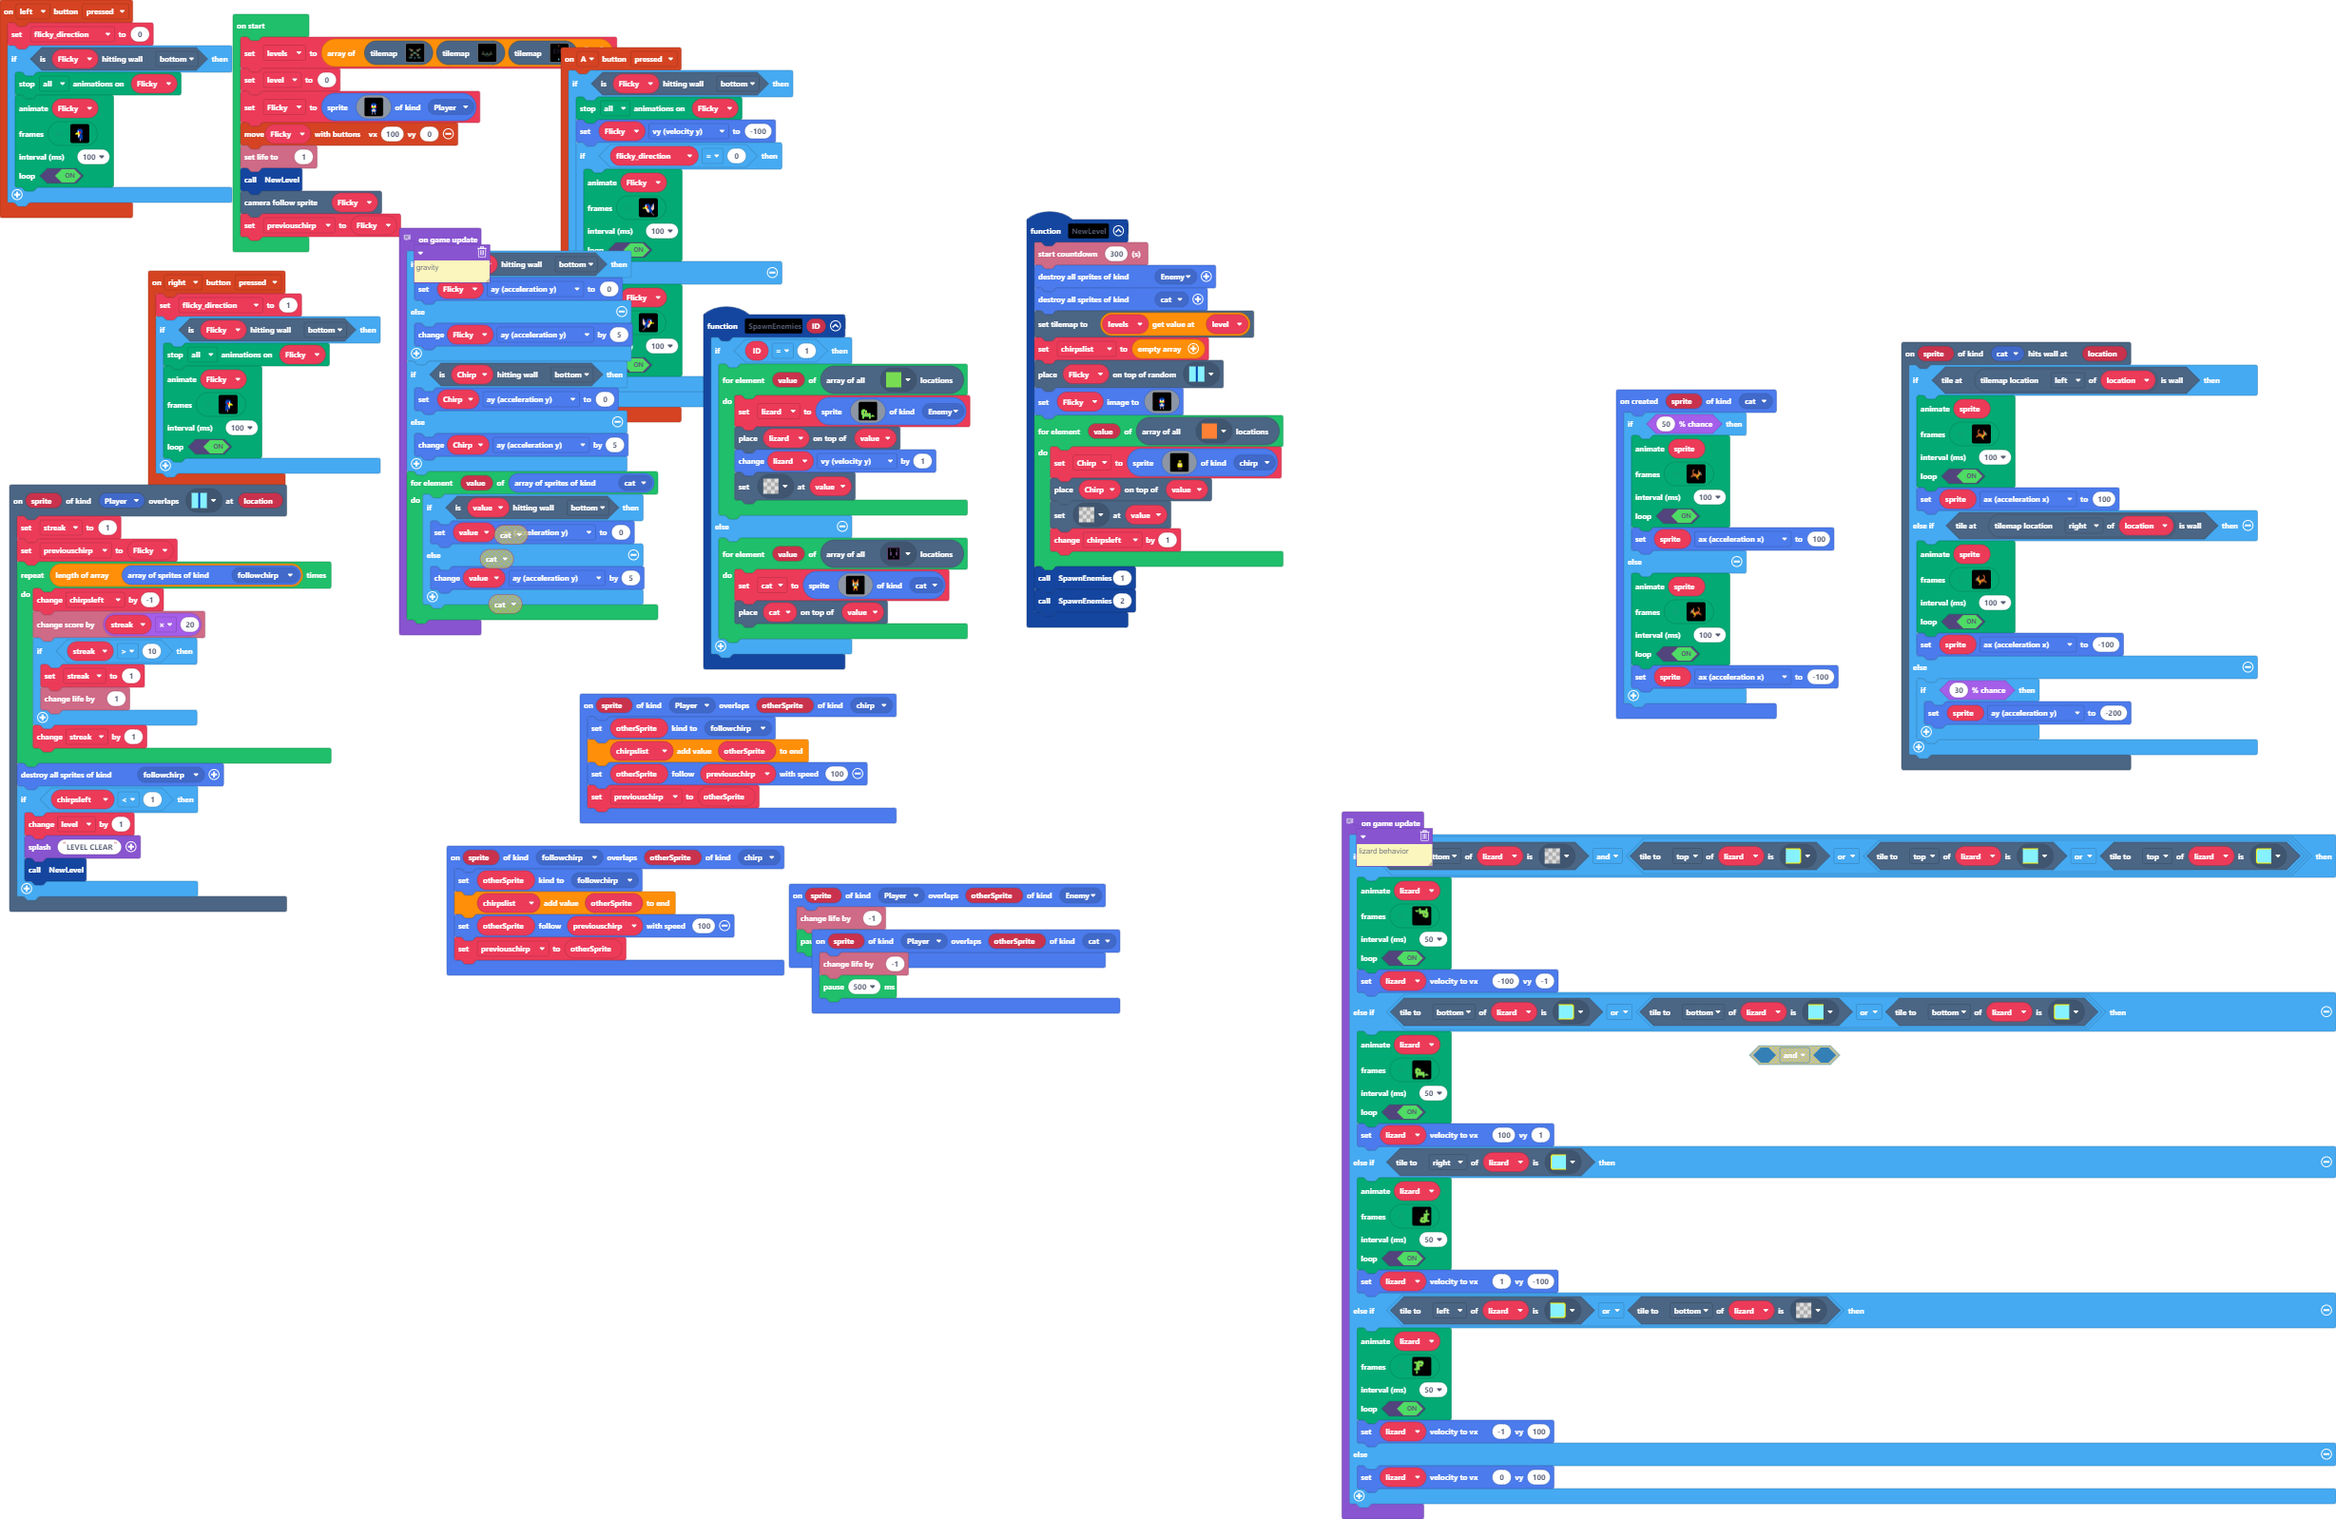
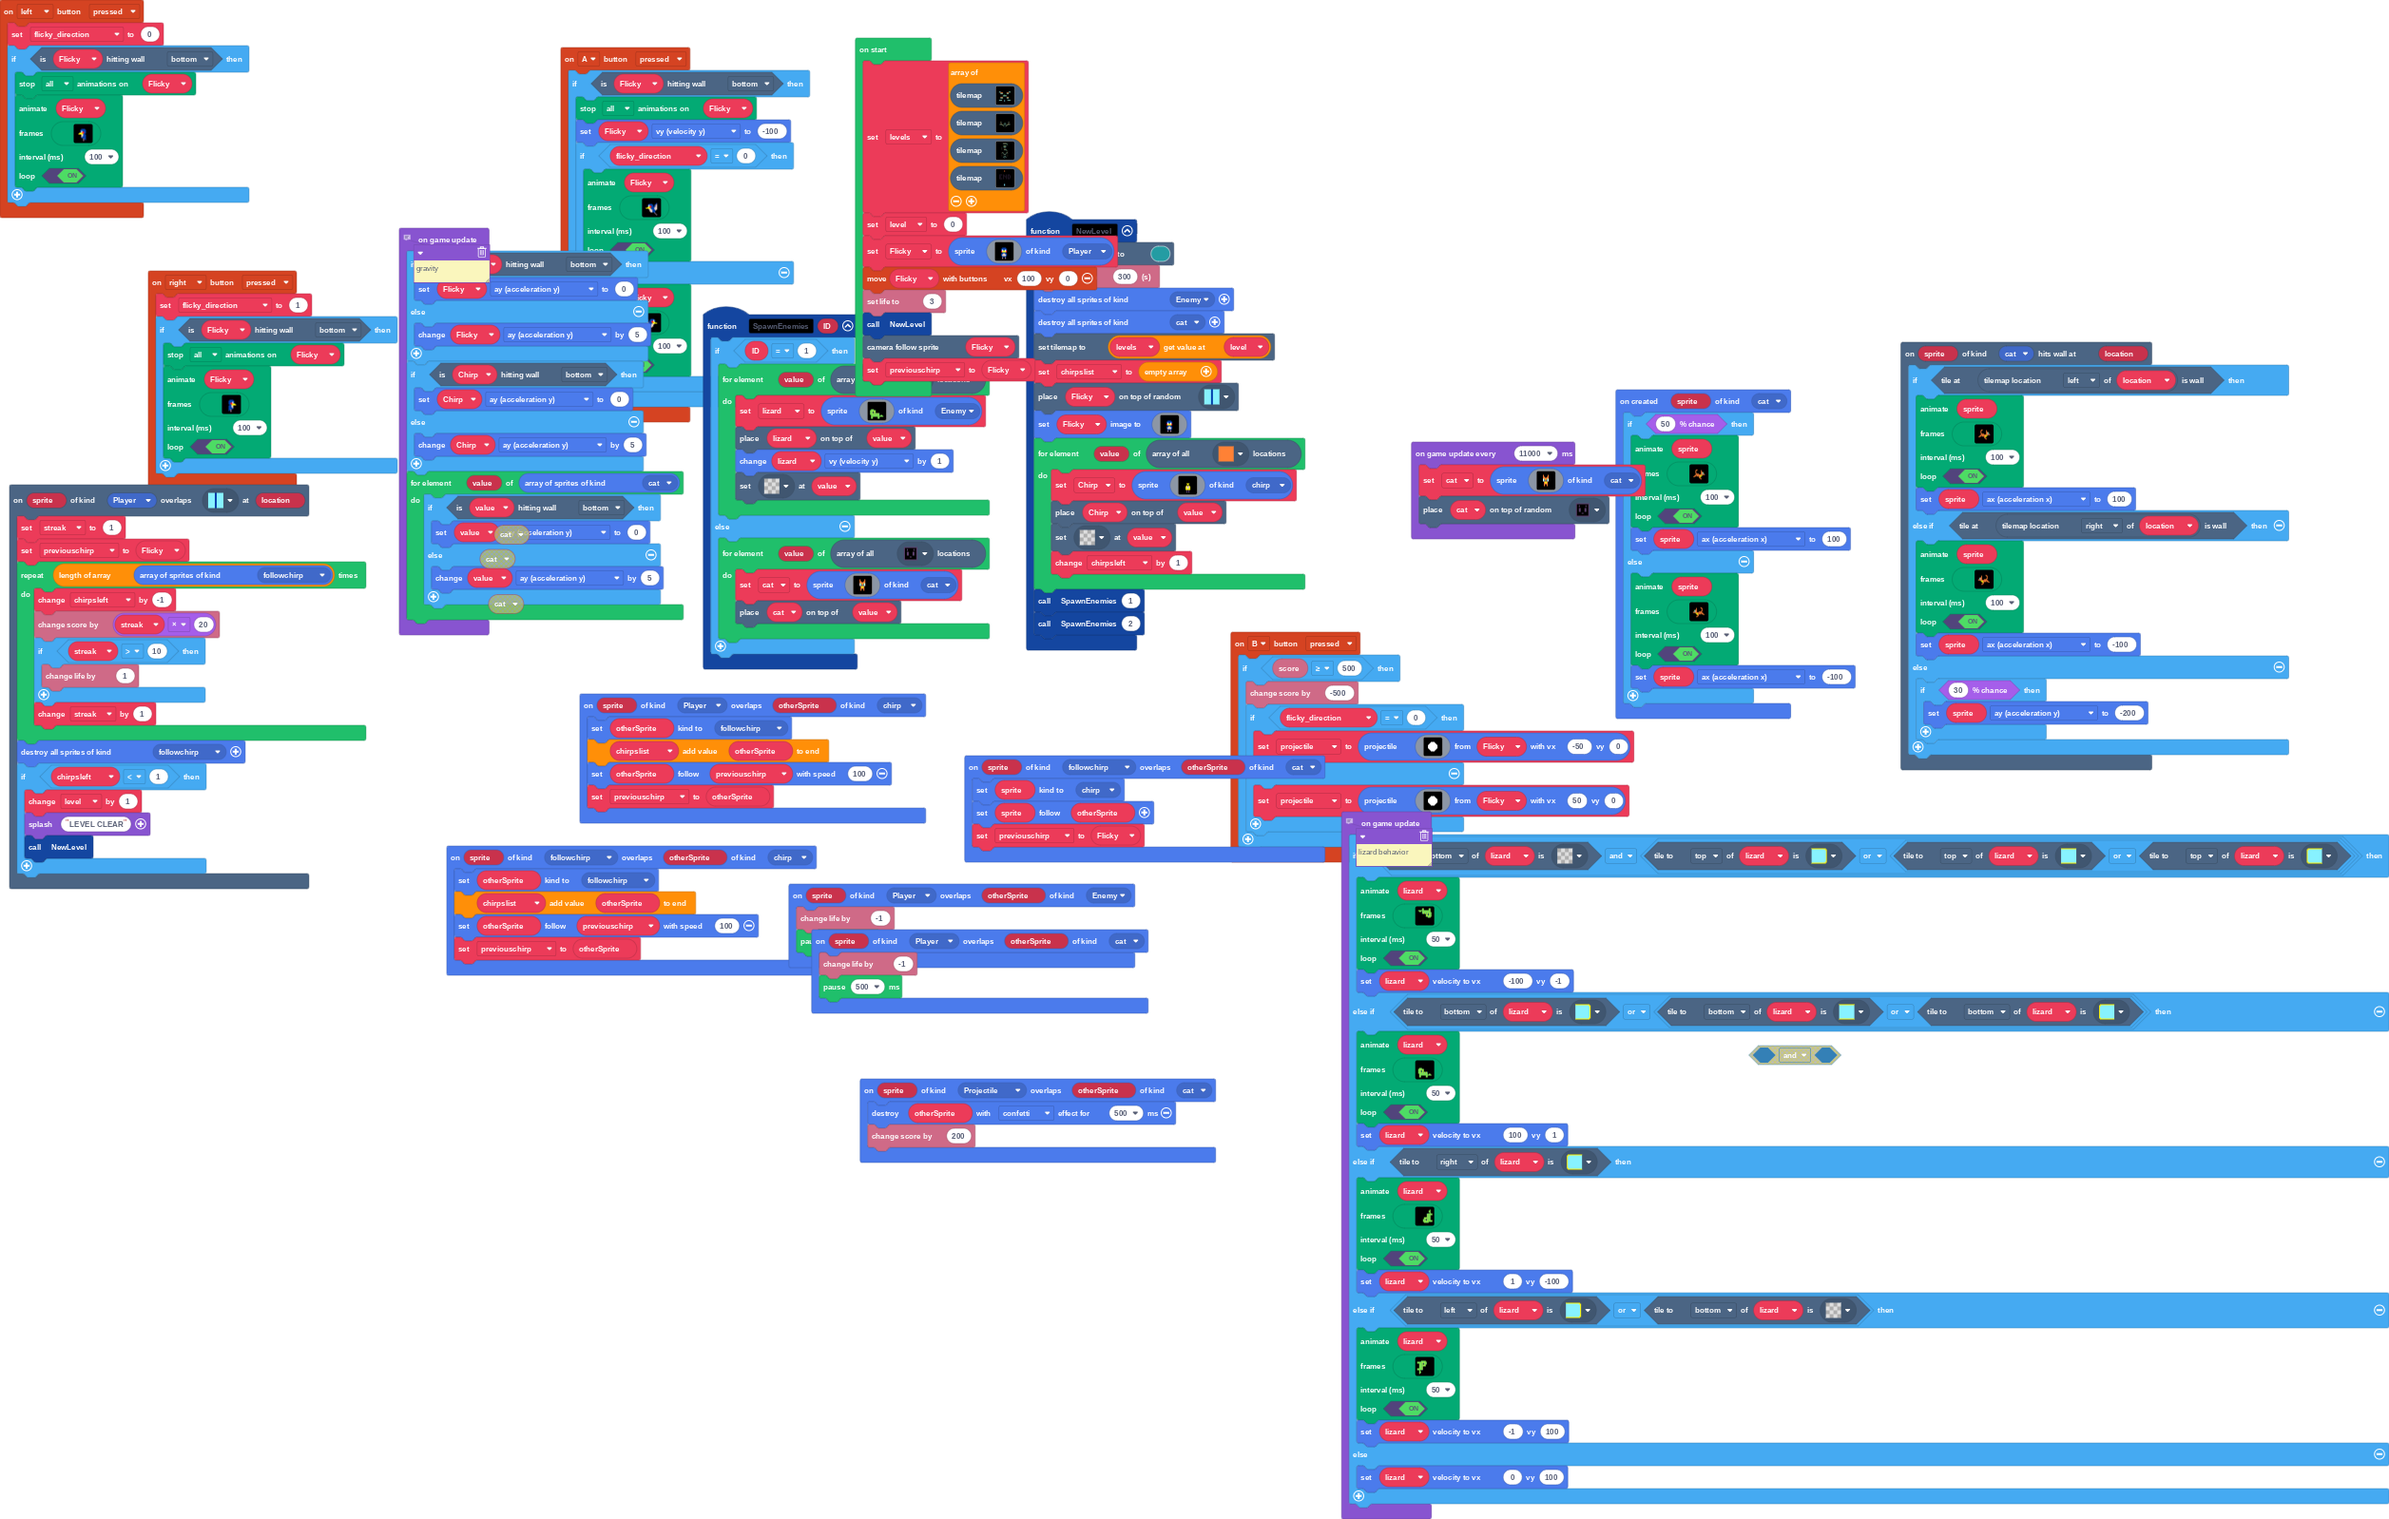
works more like the original game

diff --git a/tilemap.g.ts b/tilemap.g.ts
@@ -194,6 +194,68 @@ namespace myTiles {
 ..2222.......2222...
 ....................
 `, [myTiles.transparency16,myTiles.tile1,myTiles.tile2,myTiles.tile3,myTiles.tile4,myTiles.tile5,myTiles.tile6,myTiles.tile7], TileScale.Sixteen);
+            case "level11":
+            case "level11":return tiles.createTilemap(hex`1000100000000000000000000000000000000000000000000000000000000000000000000000000000000000000000000000000000000000000000000000000000000000000000000000000000000000000000000000000000000000000000000000000000000000000000000000000000000000000000000000000000000000000000000000000000000000000000000000000000000000000000000000000000000000000000000000000000000000000000000000000000000000000000000000000000000000000000000000000000000000000000000000000000000000000000000000000000000000000000000000000000000000000000000000000000000000`, img`
+. . . . . . . . . . . . . . . . 
+. . . . . . . . . . . . . . . . 
+. . . . . . . . . . . . . . . . 
+. . . . . . . . . . . . . . . . 
+. . . . . . . . . . . . . . . . 
+. . . . . . . . . . . . . . . . 
+. . . . . . . . . . . . . . . . 
+. . . . . . . . . . . . . . . . 
+. . . . . . . . . . . . . . . . 
+. . . . . . . . . . . . . . . . 
+. . . . . . . . . . . . . . . . 
+. . . . . . . . . . . . . . . . 
+. . . . . . . . . . . . . . . . 
+. . . . . . . . . . . . . . . . 
+. . . . . . . . . . . . . . . . 
+. . . . . . . . . . . . . . . . 
+`, [myTiles.transparency16], TileScale.Sixteen);
+            case "level10":
+            case "level10":return tiles.createTilemap(hex`1000280000000000050505050505050500000000000000010202020202020202030000000000000000000000000000000007000000000000000000000000000000010300000000000000000000000000000000000000000000000000000000000000000000000000000000000000000000000001000000000007050705070500000000000000000001020202020202030000000000000000000000000000000000000000000000000000060506000000000000000500000000010202020203000000000003000000000000000000000000000000000000000000000000000000000000000000000000000000000000000000000005000000000000000000000000000000030000000000050505050706000000000000000000000102020202030000000000000000000000000000000007000000000000000000000000000000010300000000000000000000000000000000000000000000000000000000000000000005000000000000000000000000000000010000000000000000000000000000000000000500000000000000000000050000000102030000000000000000010203000500000000000000000000000000000503000000010300000000010300000001000000000000000000000000000000000000000000060005050006000000000000000000000102020202030000000000000000000000000000000000000000000500000000000000000000000000000503000000000000000000000000000001000000000000000606000000000000000000000000010202020203000000000000000000000000000000000000000000000000000103000000000103000000000000000000000004000000000000000000000000000000040000000000000000`, img`
+................
+...2222222222...
+................
+.............22.
+................
+................
+...............2
+................
+....22222222....
+................
+................
+.....222222.....
+2...............
+................
+................
+................
+2...............
+......222222....
+................
+............22..
+................
+................
+...............2
+................
+................
+.222........222.
+................
+2...22....22...2
+................
+................
+.....222222.....
+................
+................
+2..............2
+................
+.....222222.....
+................
+....22....22....
+................
+................
+`, [myTiles.transparency16,myTiles.tile1,myTiles.tile2,myTiles.tile3,myTiles.tile4,myTiles.tile5,myTiles.tile6,myTiles.tile7], TileScale.Sixteen);
         }
         return null;
     })

diff --git a/main.ts b/main.ts
@@ -16,7 +16,6 @@ scene.onOverlapTile(SpriteKind.Player, assets.tile`doorsmiddle`, function (sprit
         chirpsleft += -1
         info.changeScoreBy(streak * 20)
         if (streak > 10) {
-            streak = 1
             info.changeLifeBy(1)
         }
         streak += 1
@@ -26,6 +25,16 @@ scene.onOverlapTile(SpriteKind.Player, assets.tile`doorsmiddle`, function (sprit
         level += 1
         game.splash("LEVEL CLEAR")
         NewLevel()
+    }
+})
+controller.B.onEvent(ControllerButtonEvent.Pressed, function () {
+    if (info.score() >= 500) {
+        info.changeScoreBy(-500)
+        if (flicky_direction == 0) {
+            projectile = sprites.createProjectileFromSprite(assets.image`ball`, Flicky, -50, 0)
+        } else {
+            projectile = sprites.createProjectileFromSprite(assets.image`ball`, Flicky, 50, 0)
+        }
     }
 })
 function SpawnEnemies (ID: number) {
@@ -106,6 +115,15 @@ controller.A.onEvent(ControllerButtonEvent.Pressed, function () {
         }
     }
 })
+sprites.onOverlap(SpriteKind.followchirp, SpriteKind.cat, function (sprite, otherSprite) {
+    sprite.setKind(SpriteKind.chirp)
+    sprite.follow(otherSprite)
+    previouschirp = Flicky
+})
+sprites.onOverlap(SpriteKind.Projectile, SpriteKind.cat, function (sprite, otherSprite) {
+    otherSprite.destroy(effects.confetti, 500)
+    info.changeScoreBy(200)
+})
 controller.left.onEvent(ControllerButtonEvent.Pressed, function () {
     flicky_direction = 0
     if (Flicky.isHittingTile(CollisionDirection.Bottom)) {
@@ -125,6 +143,7 @@ sprites.onOverlap(SpriteKind.Player, SpriteKind.chirp, function (sprite, otherSp
     previouschirp = otherSprite
 })
 function NewLevel () {
+    scene.setBackgroundColor(6)
     info.startCountdown(300)
     sprites.destroyAllSpritesOfKind(SpriteKind.Enemy)
     sprites.destroyAllSpritesOfKind(SpriteKind.cat)
@@ -169,20 +188,26 @@ sprites.onOverlap(SpriteKind.Player, SpriteKind.Enemy, function (sprite, otherSp
 })
 let Chirp: Sprite = null
 let chirpslist: Sprite[] = []
-let flicky_direction = 0
 let cat: Sprite = null
 let lizard: Sprite = null
+let projectile: Sprite = null
+let flicky_direction = 0
 let chirpsleft = 0
 let streak = 0
 let previouschirp: Sprite = null
 let Flicky: Sprite = null
 let level = 0
 let levels: tiles.TileMapData[] = []
-levels = [tilemap`level1`, tilemap`level3`, tilemap`end`]
+levels = [
+tilemap`level1`,
+tilemap`level3`,
+tilemap`level10`,
+tilemap`end`
+]
 level = 0
 Flicky = sprites.create(assets.image`flicky_front`, SpriteKind.Player)
 controller.moveSprite(Flicky, 100, 0)
-info.setLife(1)
+info.setLife(3)
 NewLevel()
 scene.cameraFollowSprite(Flicky)
 previouschirp = Flicky
@@ -243,4 +268,8 @@ game.onUpdate(function () {
     } else {
         lizard.setVelocity(0, 100)
     }
+})
+game.onUpdateInterval(11000, function () {
+    cat = sprites.create(assets.image`cat_enemy_front`, SpriteKind.cat)
+    tiles.placeOnRandomTile(cat, assets.tile`enem_spawn`)
 })

diff --git a/images.g.ts b/images.g.ts
@@ -137,6 +137,25 @@ f f 1 f 1 1 1 f 1 1 1 f f
 . . 7 7 . . . . . 7 7 . . . . . 
 . . 7 7 . . . . . 7 7 . . . . . 
 `;
+            case "image11":
+            case "ball":return img`
+. . . . . . . . . . . . . . . . 
+. . . . . . . . . . . . . . . . 
+. . . . . . . . . . . . . . . . 
+. . . . . . 1 1 1 1 . . . . . . 
+. . . . . 1 1 1 1 1 1 . . . . . 
+. . . . 1 1 1 1 1 1 1 1 . . . . 
+. . . 1 1 1 1 1 1 1 1 1 1 . . . 
+. . . 1 1 1 1 1 1 1 1 1 1 . . . 
+. . . 1 1 1 1 1 1 1 1 1 1 . . . 
+. . . 1 1 1 1 1 1 1 1 1 1 . . . 
+. . . . 1 1 1 1 1 1 1 1 . . . . 
+. . . . . 1 1 1 1 1 1 . . . . . 
+. . . . . . 1 1 1 1 . . . . . . 
+. . . . . . . . . . . . . . . . 
+. . . . . . . . . . . . . . . . 
+. . . . . . . . . . . . . . . . 
+`;
         }
         return null;
     })
